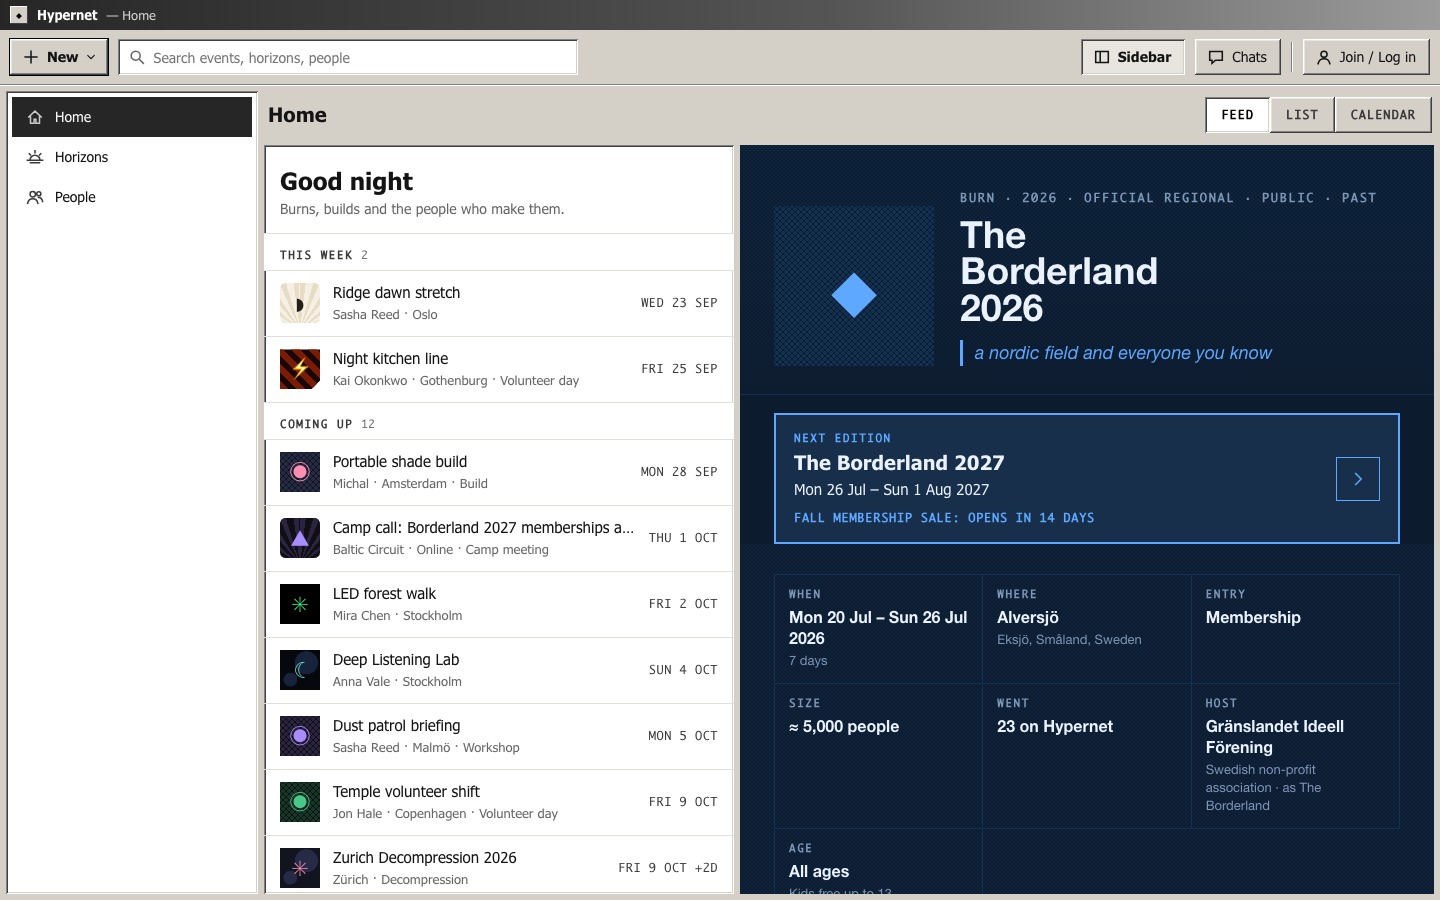
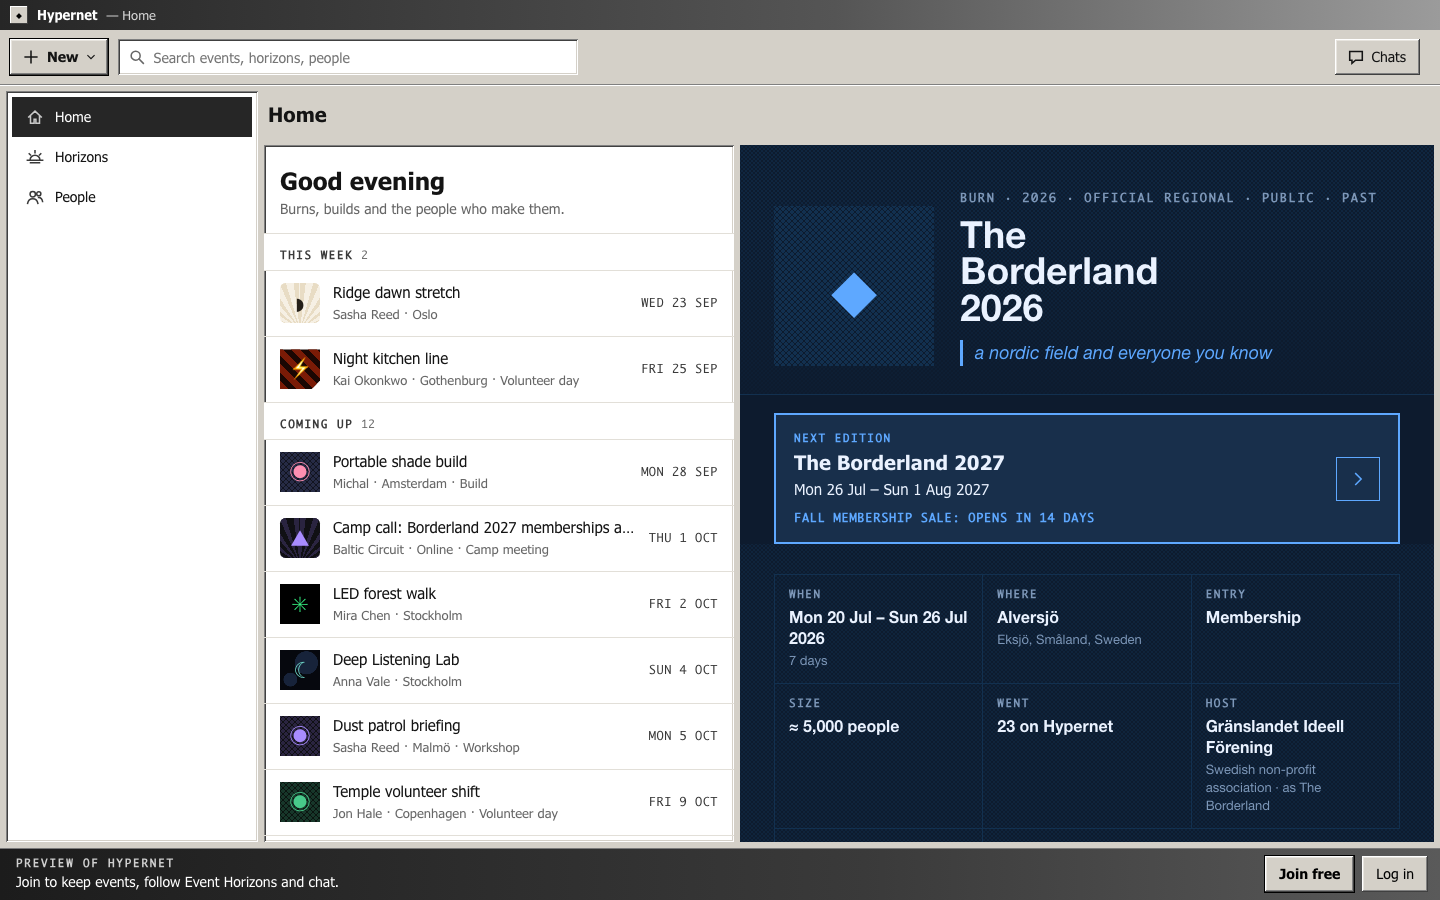
test(F1-F3): regression covers the preview bar, one-view Home and fixed sidebar
- tests/regression.js checks the three owner changes at 375/768/1280/1440
- Refreshed docs/screens; added desktop-preview-banner.png and
  phone-preview-banner.png

diff --git a/tests/regression.js b/tests/regression.js
@@ -8,7 +8,8 @@
    Covers: open event → Going; create horizon → add events → customize → reload; new group chat;
    right-click → Add to horizon; long-press sheet; back/forward/reload restore; console errors, failed
    requests (404s) and horizontal overflow at 375 (touch), 768 and 1440; plus the round-2 majors: toasts vs the
-   phone verb bar, private horizons, horizon as a desktop destination, volunteer shifts, safe Cancel/Discard. */
+   phone verb bar, private horizons, horizon as a desktop destination, volunteer shifts, safe Cancel/Discard;
+   and the 2026-09-27 owner changes: the logged-out preview bar, one-view Home, the always-there sidebar. */
 let chromium;
 try { ({ chromium } = require('playwright')); } catch(e){
   try { ({ chromium } = require('playwright-core')); } catch(e2){
@@ -230,6 +231,43 @@ async function overflowEverywhere(p, label){
   await open(x, priv, true);
   ok(await ev(x, () => /private or no longer here/.test(document.body.innerText) && location.hash.indexOf('#/horizon/') === 0), 'R2: its link elsewhere says it is private, not a silent redirect');
   console.log('r2 desk errors', o.errors, x.errors); ok(!o.errors.length && !x.errors.length, 'R2 desktop: no console errors');
+
+  /* ---------------- tablet ---------------- */
+  /* ---------------- tablet ---------------- */
+  /* ---------------- owner feedback 2026-09-27: preview bar, one-view Home, fixed sidebar ---------------- */
+  const rb = (pg, sel) => ev(pg, s => { const e = document.querySelector(s); if (!e || !e.offsetParent) return null; const r = e.getBoundingClientRect(); return { top:r.top, bottom:r.bottom, w:r.width }; }, sel);
+  for (const [kind, w, h] of [['phone', 375, 812], ['tab', 768, 1024], ['desk', 1280, 800], ['desk', 1440, 900]]){
+    const f = await ctx(kind, kind === 'desk' ? { viewport:{ width:w, height:h } } : {});
+    await open(f, '', true);
+    const pb = await rb(f, '#previewbar');
+    ok(!!pb && Math.abs(pb.w - w) < 2 && await ev(f, () => !!document.querySelector('#previewbar [data-act="join"]')), w + ': logged out, the preview bar spans the bottom with Join free');
+    ok(await ev(f, () => !document.querySelector('#chead .seg')), w + ': Home has no view switch');
+    await f.goto(URL + '#/home?view=calendar'); await f.waitForTimeout(400);
+    ok(await ev(f, () => location.hash === '#/home' && !document.getElementById('app').classList.contains('v-cal')), w + ': an old #/home?view=calendar link lands on Home');
+    await f.evaluate(() => { const l = document.getElementById('listbody'); l.scrollTop = l.scrollHeight; }); await f.waitForTimeout(150);
+    const last = await ev(f, () => { const els = document.querySelectorAll('#listbody .row, #listbody .card2'); return els.length ? els[els.length - 1].getBoundingClientRect().bottom : 0; });
+    ok(last <= (await rb(f, '#previewbar')).top + 1, w + ': the last row/card is above the preview bar');
+    if (kind === 'phone'){
+      ok(Math.abs((await rb(f, '#previewbar')).bottom - (await rb(f, '#tabbar')).top) < 1, 'phone: preview bar directly above the tab bar');
+      await f.goto(URL + '#/event/led-forest-walk'); await f.waitForTimeout(400);
+      ok((await rb(f, '#evbar')).bottom <= (await rb(f, '#previewbar')).top + 1, 'phone: the event verb bar is not covered by the preview bar');
+      await f.evaluate(() => toast('Test', 'toast')); await f.waitForTimeout(100);
+      ok((await rb(f, '#toasts .toast')).bottom <= (await rb(f, '#evbar')).top + 1, 'phone: toasts stack above both bars');
+    } else {
+      ok(await ev(f, () => !document.getElementById('tg-left') && document.getElementById('nav').getBoundingClientRect().width >= 190), w + ': sidebar always visible, no toggle');
+      await join(f, 'Mia Lind', 'mialind');
+      ok(!(await rb(f, '#previewbar')), w + ': the preview bar goes once logged in');
+      await f.evaluate(() => doLogout()); await f.waitForTimeout(200);
+      await f.evaluate(() => loginDialog()); await f.waitForTimeout(150);
+      await f.click('.dlg [data-act="useacct"][data-id="demo"]'); await f.waitForTimeout(300);
+      await f.click('#tg-right'); await f.waitForTimeout(200);
+      await f.click('.chrow[data-id="c-baltic"]'); await f.waitForTimeout(200);
+      ok(await ev(f, () => document.getElementById('nav').getBoundingClientRect().width >= 190 && !!document.querySelector('#chats .conv')), w + ': sidebar stays with the chat dock open');
+      if (w >= 1280) ok(await ev(f, () => document.getElementById('app').classList.contains('split') && document.getElementById('dscroll').getBoundingClientRect().width >= 380), w + ': list + reading pane + dock fit');
+    }
+    ok((await overflow(f)) <= 0, w + ': no overflow');
+    console.log(w + ' feedback errors', f.errors); ok(!f.errors.length, w + ': no console errors');
+  }
 
   /* ---------------- tablet ---------------- */
   const t = await ctx('tab');

diff --git a/docs/usability/FIX-PLAN.md b/docs/usability/FIX-PLAN.md
@@ -366,3 +366,7 @@ event section's Show all. (Home's LIST was the only place with Sort for the whol
 gone; it narrows with the screen (252 / 216 / 200px) and keeps labels. With the dock open: 1440 = sidebar 252 +
 list + reading pane 504px + dock; 1280 = 216 + list + reading 394px + dock (split threshold with the dock lowered to
 720px); 1024 and 768 = sidebar + centre with the dock floating over the centre's right edge.
+
+*Verified* at 375 (touch), 768, 1280 and 1440, logged out and logged in: `tests/regression.js` gained a block for the
+three changes (preview bar position vs tab bar / event bar / toasts / last row, old `?view=` Home links, no sidebar
+toggle, sidebar + dock + reading pane at 1280/1440) and passes with no console errors or failed requests.
